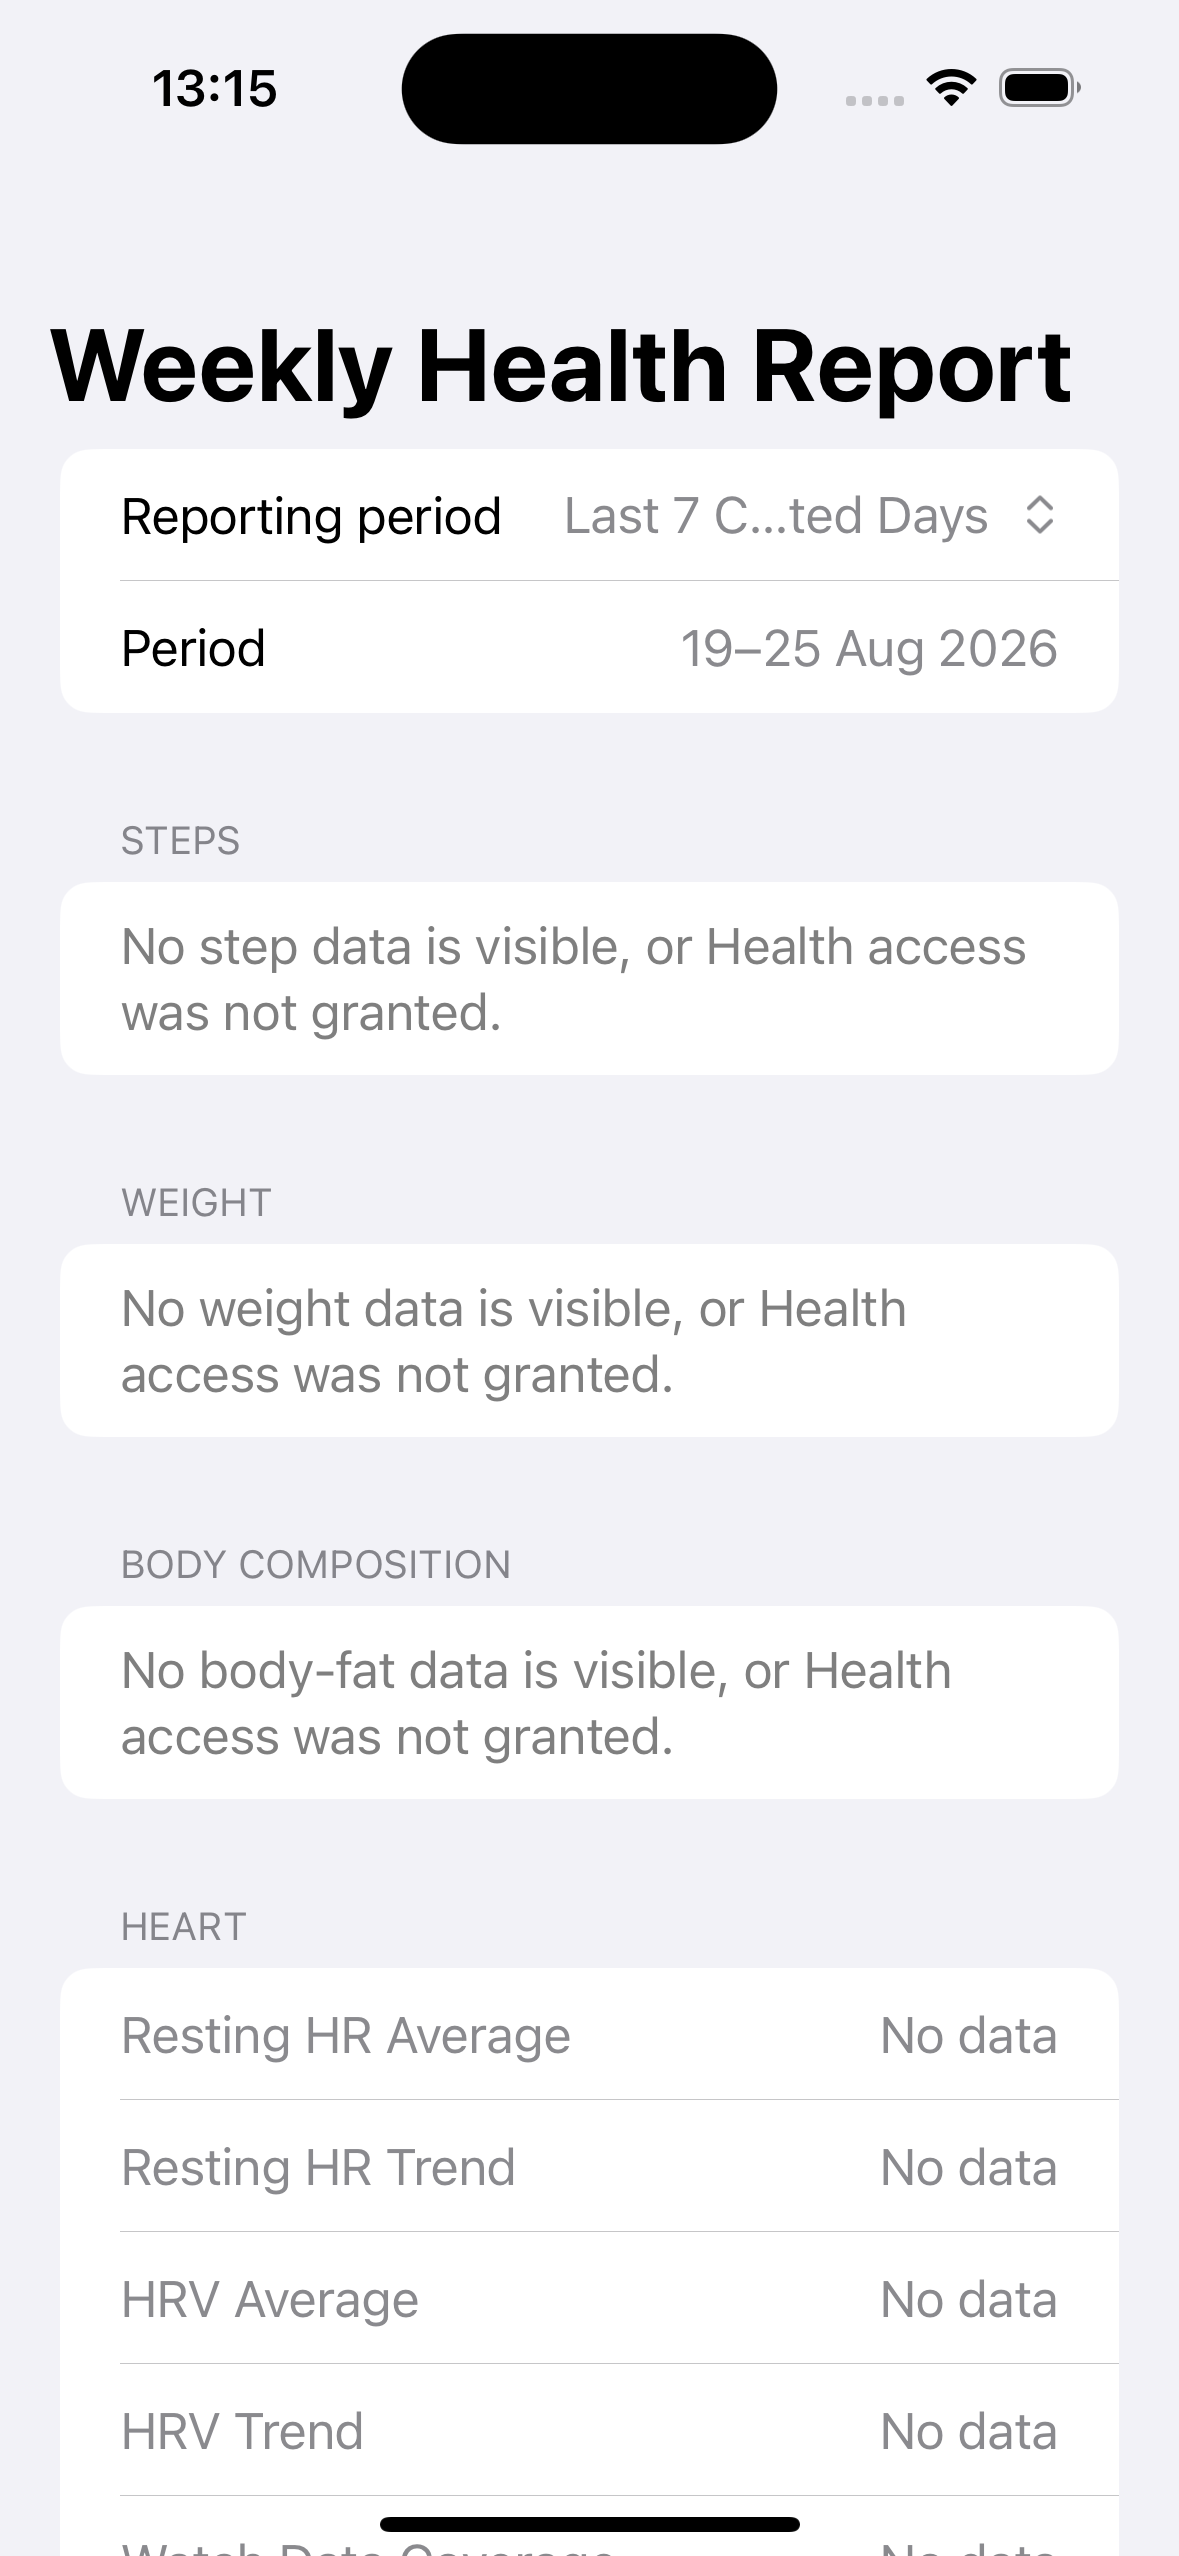
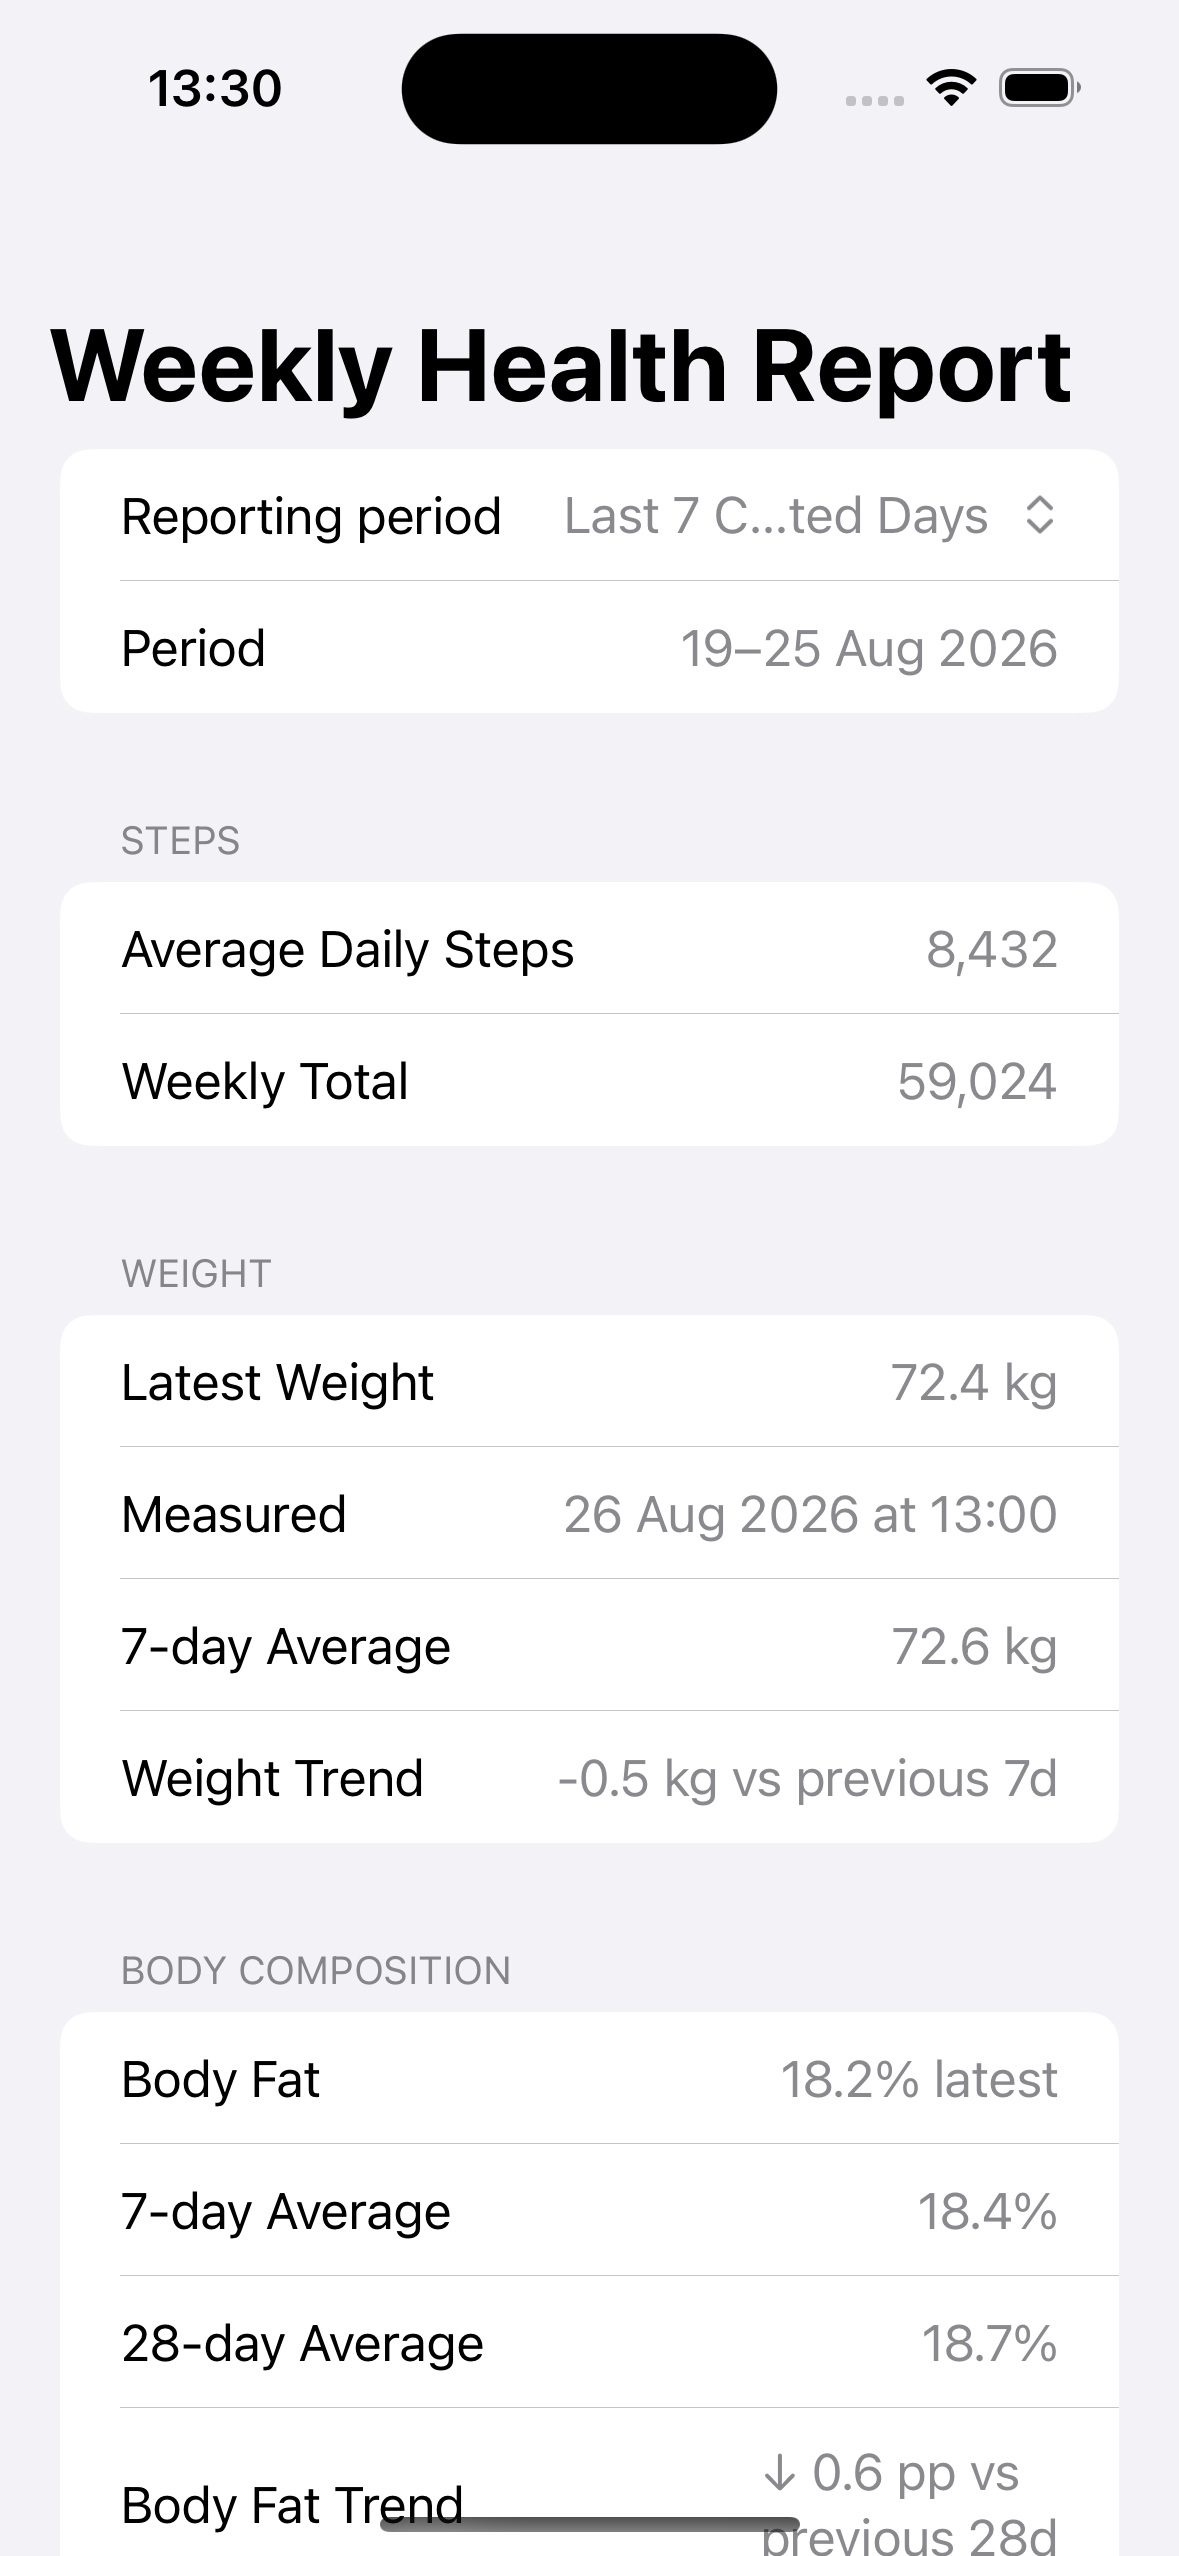
docs: update simulator screenshot

diff --git a/README.md b/README.md
@@ -6,7 +6,7 @@ A small native iPhone utility that reads selected Apple Health data, produces a 
 
 <img src="docs/images/weekly-health-report-simulator.png" alt="Weekly Health Report running on an iPhone simulator" width="390">
 
-The simulator has no personal HealthKit records, so this capture intentionally demonstrates the app's explicit **No data** state. Real values are only available when the app runs on an authorised iPhone.
+The simulator screenshot uses an invented fixture created only for documentation. It contains no exported or personal HealthKit values. The production app reads real values only when it runs on an authorised iPhone.
 
 ## Privacy
 
@@ -33,25 +33,25 @@ Weekly Health Report
 19–25 Aug 2026
 Generated: 26 Aug 2026 at 08:30
 
-Latest Weight: 100.6 kg
+Latest Weight: 72.4 kg
 Weight Recorded: 26 Aug 2026 at 08:12
-Weight 7-day Avg: 100.8 kg
-Weight Trend: -0.4 kg vs previous 7d
-Body Fat: 26.5%
-Body Fat 28-day Avg: 26.7%
-Body Fat Trend: -0.9 pp vs previous 28d
-Average Daily Steps: 2,727
-Resting HR Average: 73 bpm
-Resting HR Trend: +3.0 bpm vs previous 7d
-HRV Average: 42 ms
-HRV Trend: -5.0 ms vs previous 7d
-Watch Data Coverage: 4 / 7 days
-Average Sleep: 6h 48m
-Active Energy: 1,974 kcal
-Exercise: 89 min
+Weight 7-day Avg: 72.6 kg
+Weight Trend: -0.5 kg vs previous 7d
+Body Fat: 18.2%
+Body Fat 28-day Avg: 18.7%
+Body Fat Trend: -0.6 pp vs previous 28d
+Average Daily Steps: 8,432
+Resting HR Average: 61 bpm
+Resting HR Trend: -2.0 bpm vs previous 7d
+HRV Average: 58 ms
+HRV Trend: +4.0 ms vs previous 7d
+Watch Data Coverage: 6 / 7 days
+Average Sleep: 7h 32m
+Active Energy: 3,456 kcal
+Exercise: 143 min
 Workouts: 2
-Workout: Walking — 31m
-Workout: Functional Strength Training — 18m
+Workout: Cycling — 42m
+Workout: Yoga — 36m
 ```
 
 ## Aggregation semantics
